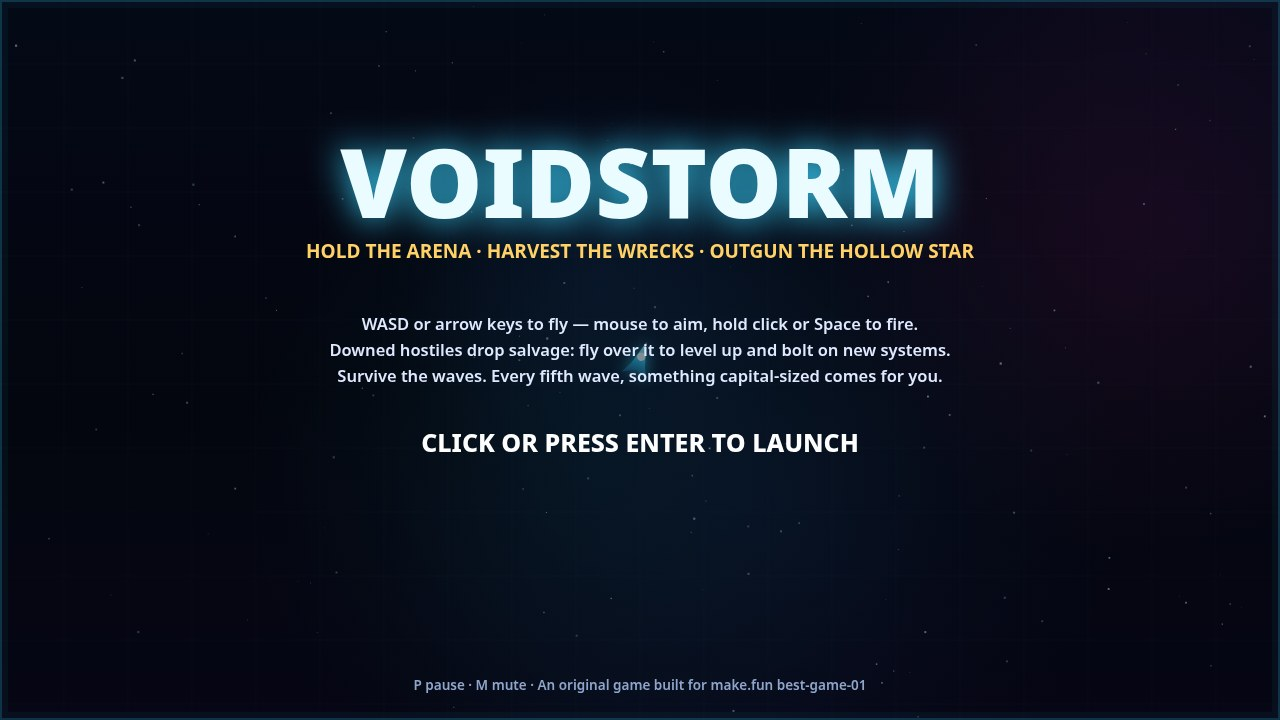
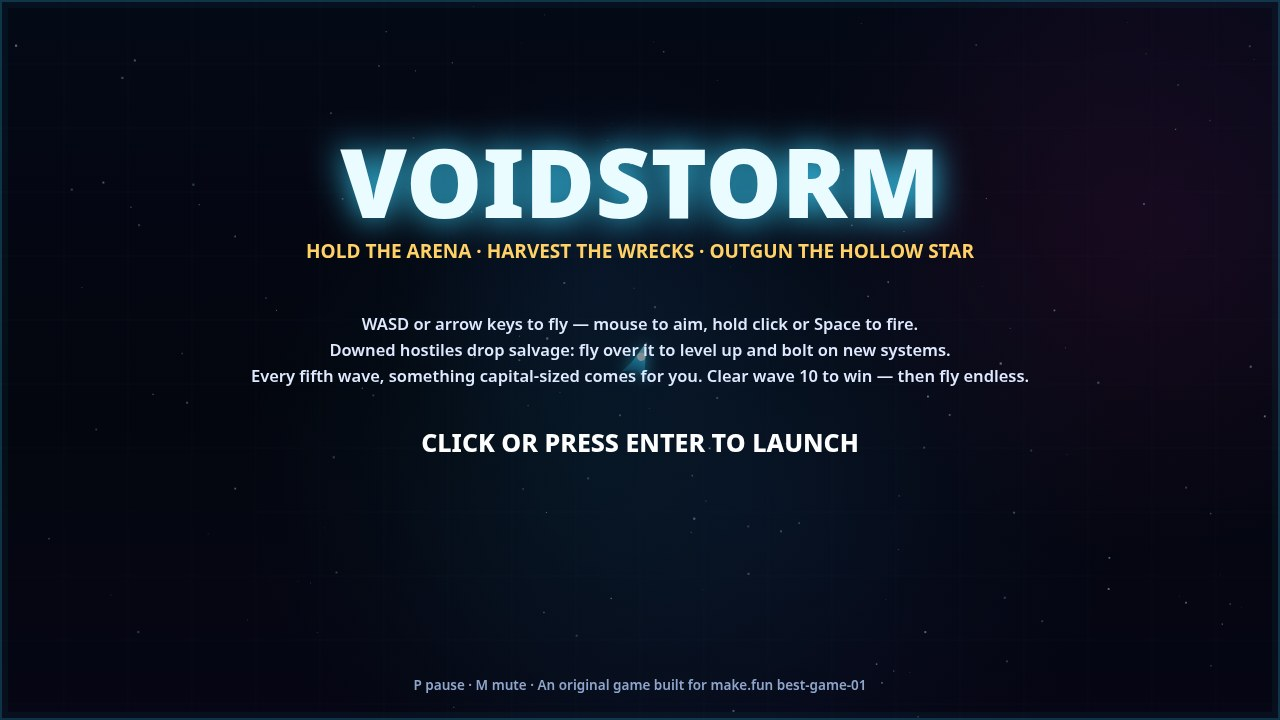
Add a win condition: clear wave 10 to break the storm, victory screen, endless flight after

Changed region(s): [[0.1875, 0.5194, 0.8125, 0.55]]

diff --git a/game/src/render.js b/game/src/render.js
@@ -3,12 +3,13 @@
 // sleek pilot ship, particle bursts, floating damage numbers and a full HUD. The renderer
 // reads the world and the shell's screen state; it never mutates either.
 
-import { COLORS, ENEMY_KINDS, FIELD, isBossWave } from './config.js';
+import { COLORS, ENEMY_KINDS, FIELD, WIN_WAVE, isBossWave } from './config.js';
 
 export const SCREEN_TITLE = 'title';
 export const SCREEN_PLAY = 'play';
 export const SCREEN_LEVELUP = 'levelup';
 export const SCREEN_OVER = 'over';
+export const SCREEN_VICTORY = 'victory';
 export const SCREEN_PAUSE = 'pause';
 
 const TAU = Math.PI * 2;
@@ -357,6 +358,11 @@ function drawHud(ctx, world) {
     bar(ctx, FIELD.width / 2 - 190, 74, 380, 8, boss.hp / boss.maxHp, COLORS.bad, 'rgba(255,255,255,0.13)');
   }
 
+  // The run's objective, always on the glass until it is done.
+  ctx.font = `700 12.5px ${FONT}`;
+  ctx.fillStyle = world.won ? COLORS.good : COLORS.accentWarm;
+  ctx.fillText(world.won ? '★ STORM BROKEN — ENDLESS FLIGHT ★' : `OBJECTIVE — CLEAR WAVE ${WIN_WAVE} TO BREAK THE STORM`, FIELD.width / 2, 102);
+
   ctx.textAlign = 'right';
   ctx.font = `700 13px ${FONT}`;
   ctx.fillStyle = COLORS.textDim;
@@ -477,7 +483,7 @@ function drawTitle(ctx, world, ui) {
   const lines = [
     'WASD or arrow keys to fly — mouse to aim, hold click or Space to fire.',
     'Downed hostiles drop salvage: fly over it to level up and bolt on new systems.',
-    'Survive the waves. Every fifth wave, something capital-sized comes for you.',
+    'Every fifth wave, something capital-sized comes for you. Clear wave 10 to win — then fly endless.',
   ];
   lines.forEach((line, i) => ctx.fillText(line, FIELD.width / 2, 330 + i * 26));
 
@@ -544,6 +550,55 @@ function drawOver(ctx, world, ui) {
   ctx.restore();
 }
 
+function drawVictory(ctx, world, ui) {
+  drawWorld(ctx, world);
+  drawHud(ctx, world);
+  ctx.save();
+  ctx.fillStyle = 'rgba(4, 12, 6, 0.62)';
+  ctx.fillRect(0, 0, FIELD.width, FIELD.height);
+  ctx.textAlign = 'center';
+  ctx.font = `900 64px ${FONT}`;
+  ctx.shadowColor = COLORS.accentWarm;
+  ctx.shadowBlur = 30;
+  ctx.fillStyle = '#fff3d6';
+  ctx.fillText('★ STORM BROKEN ★', FIELD.width / 2, 190);
+  ctx.shadowBlur = 0;
+  ctx.font = `600 17px ${FONT}`;
+  ctx.fillStyle = COLORS.textDim;
+  ctx.fillText(`Wave ${WIN_WAVE} cleared — the Hollow Star is wreckage and the arena is yours.`, FIELD.width / 2, 226);
+
+  const stats = [
+    ['FINAL SCORE', world.score.toLocaleString('en-US')],
+    ['WAVE CLEARED', `${Math.max(1, world.wave)}`],
+    ['KILLS', `${world.kills}`],
+    ['TIME TO VICTORY', formatTime(world.time)],
+    ['PILOT LEVEL', `${world.player.level}`],
+    ['BEST SCORE', Math.max(ui.best, world.score).toLocaleString('en-US')],
+  ];
+  ctx.font = `700 15px ${FONT}`;
+  stats.forEach(([label, value], i) => {
+    const colX = FIELD.width / 2 - 250 + (i % 3) * 250;
+    const rowY = 300 + Math.floor(i / 3) * 74;
+    ctx.fillStyle = COLORS.textDim;
+    ctx.fillText(label, colX, rowY);
+    ctx.fillStyle = COLORS.text;
+    ctx.font = `800 30px ${FONT}`;
+    ctx.fillText(value, colX, rowY + 36);
+    ctx.font = `700 15px ${FONT}`;
+  });
+
+  const pulse = 0.72 + 0.28 * Math.sin(ui.time * 3.2);
+  ctx.globalAlpha = pulse;
+  ctx.font = `800 23px ${FONT}`;
+  ctx.fillStyle = '#ffffff';
+  ctx.fillText('CLICK OR PRESS C TO KEEP FLYING — ENDLESS', FIELD.width / 2, 520);
+  ctx.globalAlpha = 1;
+  ctx.font = `600 15px ${FONT}`;
+  ctx.fillStyle = COLORS.textDim;
+  ctx.fillText('or press R for a fresh run', FIELD.width / 2, 550);
+  ctx.restore();
+}
+
 function drawPause(ctx, world) {
   drawWorld(ctx, world);
   ctx.save();
@@ -567,6 +622,10 @@ export function render(ctx, world, screen, ui) {
   }
   if (screen === SCREEN_OVER) {
     drawOver(ctx, world, ui);
+    return;
+  }
+  if (screen === SCREEN_VICTORY) {
+    drawVictory(ctx, world, ui);
     return;
   }
   if (screen === SCREEN_PAUSE) {

diff --git a/game/src/main.js b/game/src/main.js
@@ -16,9 +16,10 @@ import {
   EVENT_SHIELD_BREAK,
   EVENT_SHOOT,
   EVENT_WAVE,
+  EVENT_WIN,
   World,
 } from './world.js';
-import { SCREEN_LEVELUP, SCREEN_OVER, SCREEN_PAUSE, SCREEN_PLAY, SCREEN_TITLE, choiceCardRects, render } from './render.js';
+import { SCREEN_LEVELUP, SCREEN_OVER, SCREEN_PAUSE, SCREEN_PLAY, SCREEN_TITLE, SCREEN_VICTORY, choiceCardRects, render } from './render.js';
 import { stageShot } from './shots.js';
 
 const canvas = document.getElementById('game');
@@ -107,6 +108,13 @@ function live() {
       screen = SCREEN_LEVELUP;
       announce(`Level ${world.player.level}. Choose an upgrade.`);
     }
+    if (events & EVENT_WIN) {
+      sound.levelUp();
+      sound.explosion(true);
+      saveBest();
+      screen = SCREEN_VICTORY;
+      announce(`Storm broken. Wave ${world.wave} cleared with score ${world.score}. Press C to keep flying endless, or R for a new run.`);
+    }
     if (events & EVENT_OVER) {
       sound.gameOver();
       saveBest();
@@ -150,7 +158,7 @@ function live() {
           events |= world.step(STEP, input.control(world.player));
           accumulator -= STEP;
           steps += 1;
-          if (world.awaitingChoice || world.over) {
+          if (world.awaitingChoice || world.over || (events & EVENT_WIN)) {
             accumulator = 0;
             break;
           }
@@ -171,7 +179,7 @@ function live() {
         screen = SCREEN_PLAY;
         announce('Resumed.');
       }
-    } else if (screen === SCREEN_OVER) {
+    } else if (screen === SCREEN_OVER || screen === SCREEN_VICTORY) {
       // Let the wreckage drift: particles still live in the world, so keep stepping gently
       // with no pilot input until they settle, then freeze on the stats.
       accumulator += dt;
@@ -185,7 +193,15 @@ function live() {
         world.particles = world.particles.filter((pt) => pt.life > 0);
         accumulator -= STEP;
       }
-      if (input.takePressed('KeyR') || input.takePressed('Enter') || input.takePressed('PointerLeft')) startRun();
+      if (screen === SCREEN_VICTORY && (input.takePressed('KeyC') || input.takePressed('Enter') || input.takePressed('PointerLeft'))) {
+        screen = SCREEN_PLAY;
+        sound.uiClick();
+        announce('Endless flight. The waves keep coming.');
+      } else if (input.takePressed('KeyR')) {
+        startRun();
+      } else if (screen === SCREEN_OVER && (input.takePressed('Enter') || input.takePressed('PointerLeft'))) {
+        startRun();
+      }
     }
 
     if (input.takePressed('KeyM')) {

diff --git a/game/src/shots.js b/game/src/shots.js
@@ -4,8 +4,8 @@
 // same seed always produces the same frame. The maker's tooling loads these URLs in a browser
 // and captures the canvas (see shots.json for the scene list).
 
-import { FIELD, STEP } from './config.js';
-import { SCREEN_LEVELUP, SCREEN_OVER, SCREEN_PLAY, SCREEN_TITLE } from './render.js';
+import { FIELD, STEP, UPGRADES } from './config.js';
+import { SCREEN_LEVELUP, SCREEN_OVER, SCREEN_PLAY, SCREEN_TITLE, SCREEN_VICTORY } from './render.js';
 
 const PLAY_SECONDS = 34;
 const LEVELUP_LIMIT_SECONDS = 240;
@@ -141,6 +141,25 @@ export function stageShot(name, world, seed) {
     }, (w) => w.awaitingChoice);
     world.shake = 0;
     return { screen: SCREEN_LEVELUP, best: 0 };
+  }
+  if (name === 'victory') {
+    // A stacked veteran build flies the whole run for real — waves 1 to 10 through the
+    // actual rules, the autopilot at the stick — and the scene freezes on the frame
+    // where the storm breaks. The build is strong, not invincible: the frame is earned.
+    const build = [
+      'damage', 'damage', 'damage', 'damage', 'damage', 'damage',
+      'firerate', 'firerate', 'firerate', 'firerate', 'firerate',
+      'multishot', 'multishot', 'multishot', 'pierce', 'pierce',
+      'hull', 'hull', 'hull', 'hull', 'nanobots', 'nanobots', 'nanobots',
+      'shield', 'magnet', 'magnet', 'speed',
+    ];
+    for (const id of build) {
+      const upgrade = UPGRADES.find((u) => u.id === id);
+      if (upgrade) upgrade.apply(world.player);
+    }
+    runSeconds(world, 1500, (w) => autopilotControl(w), (w) => w.won);
+    world.shake = 0;
+    return { screen: world.won ? SCREEN_VICTORY : SCREEN_PLAY, best: world.score };
   }
   if (name === 'end') {
     runSeconds(world, END_LIMIT_SECONDS, (w) => autopilotControl(w, { reckless: true }));

diff --git a/game/src/world.js b/game/src/world.js
@@ -3,7 +3,7 @@
 // reports what happened as event bits so the shell can play sounds and shake the screen.
 // Rendering reads the world; it never writes it.
 
-import { ENEMY_KINDS, FIELD, GEM, PLAYER, UPGRADES, isBossWave, waveHpScale, waveSize, xpForLevel } from './config.js';
+import { ENEMY_KINDS, FIELD, GEM, PLAYER, UPGRADES, WIN_BONUS, WIN_WAVE, isBossWave, waveHpScale, waveSize, xpForLevel } from './config.js';
 import { Random } from './random.js';
 
 export const EVENT_OVER = 1;
@@ -16,6 +16,7 @@ export const EVENT_KILL = 64;
 export const EVENT_PICKUP = 128;
 export const EVENT_SHIELD_BREAK = 256;
 export const EVENT_BOSS_DOWN = 512;
+export const EVENT_WIN = 1024;
 
 const TAU = Math.PI * 2;
 
@@ -43,6 +44,7 @@ export class World {
     this.spawnTimer = 0;
     this.bossAlive = false;
     this.over = false;
+    this.won = false;
     this.awaitingChoice = false;
     this.choices = [];
     this.pickupCombo = 0;
@@ -394,6 +396,15 @@ export class World {
       this.waveTimer = 2.4;
       this.score += 50 * this.wave;
       this.floater(p.x, p.y - 44, `WAVE BONUS +${50 * this.wave}`, '#51e07a');
+      if (this.wave === WIN_WAVE && !this.won) {
+        // The second Hollow Star is wreckage and the arena is clear: the run is won.
+        // The shell pauses on the victory screen; the waves resume if the pilot stays.
+        this.won = true;
+        this.score += WIN_BONUS;
+        this.burst(p.x, p.y, 90, '#ffd166', 320, 0.9);
+        this.burst(p.x, p.y, 60, '#51e07a', 240, 0.7);
+        events |= EVENT_WIN;
+      }
     }
 
     // Pilot movement: thrust toward the held direction, drag against drift.

diff --git a/game/src/config.js b/game/src/config.js
@@ -130,6 +130,12 @@ export function isBossWave(wave) {
   return wave % 5 === 0;
 }
 
+/** Clear this wave — the second Hollow Star — and the run is won. The arena stays open after. */
+export const WIN_WAVE = 10;
+
+/** Score bonus paid the moment the winning wave falls. */
+export const WIN_BONUS = 2500;
+
 /** The upgrade deck. `apply` mutates the pilot's stats; `blurb` is what the card promises. */
 export const UPGRADES = [
   {
